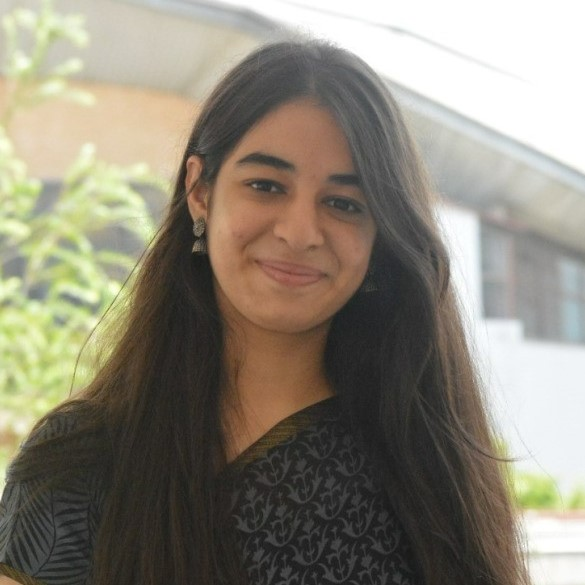
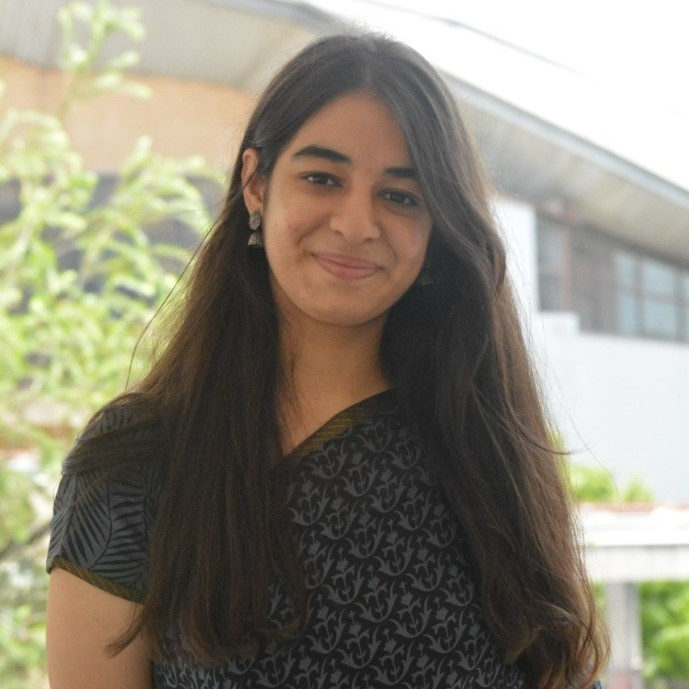
Updated teams page + New notifs highlighted

diff --git a/src/components/main/Notifications.js b/src/components/main/Notifications.js
@@ -5,15 +5,33 @@ import { notifData } from "../data/notifData";
 import logo_src from "../../images/logo-white.png";
 
 export default function Notifications(props) {
-  const [rawNotifData, unused] = React.useState(notifData);
+  const rawNotifData = React.useState(notifData)[0];
+  const [newNotifs, setNewNotifs] = React.useState(0);
+
+  const msPerMinute = 60 * 1000;
+  const msPerHour = msPerMinute * 60;
+  const msPerDay = msPerHour * 24;
+  const msPerMonth = msPerDay * 30;
+  const msPerYear = msPerDay * 365;
+
+  const expiryDuration = msPerDay * 3;
+
+  React.useEffect(() => {
+    rawNotifData.forEach((e) => {
+      const elapsed = Date.now() - new Date(e.time);
+      if (elapsed < expiryDuration) setNewNotifs((e) => e + 1);
+    });
+  }, []);
+
+  function isNew(current, previous) {
+    const elapsed = current - previous;
+
+    if (elapsed < expiryDuration) {
+      return true;
+    } else return false;
+  }
 
   function timeDifference(current, previous) {
-    const msPerMinute = 60 * 1000;
-    const msPerHour = msPerMinute * 60;
-    const msPerDay = msPerHour * 24;
-    const msPerMonth = msPerDay * 30;
-    const msPerYear = msPerDay * 365;
-
     const elapsed = current - previous;
     let msg = "";
     if (elapsed < msPerMinute) {
@@ -36,7 +54,11 @@ export default function Notifications(props) {
   }
 
   const notifs = rawNotifData.map((e, i) => (
-    <div className="notif--self" key={i}>
+    <div
+      className={`notif--self`}
+      key={i}
+      id={isNew(Date.now(), new Date(e.time)) ? "notif--new" : ""}
+    >
       <div className="notif--heading">
         <img src={logo_src} alt="PB Logo" />
         <h4>ProjectBeta</h4>
@@ -51,8 +73,8 @@ export default function Notifications(props) {
     <div className="notif--main">
       <h2>Notifications</h2>
       <p>
-        {rawNotifData.length === 0 ? "No" : rawNotifData.length} new
-        notification{rawNotifData.length !== 1 ? "s" : ""}
+        {newNotifs === 0 ? "No" : newNotifs} new notification
+        {newNotifs !== 1 ? "s" : ""}
       </p>
       <div className="notif--list">{notifs}</div>
     </div>

diff --git a/src/components/main/Taskbar.js b/src/components/main/Taskbar.js
@@ -14,11 +14,22 @@ import Notifications from "./Notifications";
 import { notifData } from "../data/notifData";
 
 export default function Taskbar() {
-  const [anyNotif, unused] = React.useState(notifData.length);
+  const [newNotifs, setNewNotifs] = React.useState(countNewNotifs());
+
+  function countNewNotifs() {
+    let count = 0;
+    const expiryDuration = 60 * 1000 * 60 * 24 * 3;
+    notifData.forEach((e) => {
+      const elapsed = Date.now() - new Date(e.time);
+      if (elapsed < expiryDuration) count++;
+    });
+    return count;
+  }
+
   const [notifToggled, setNotifToggled] = React.useState([
     false,
     "-85vh",
-    anyNotif > 0 ? notif_unread_src : notif_off_src,
+    newNotifs > 0 ? notif_unread_src : notif_off_src,
   ]);
 
   function toggleNotif() {

diff --git a/src/css/App.css b/src/css/App.css
@@ -119,7 +119,7 @@ body {
   transition: 0.5s;
   user-select: none;
   cursor: pointer;
-  color: var(--shadowBlack);
+  color: var(--shadowWhite);
   opacity: 0;
 }
 
@@ -301,6 +301,12 @@ body {
   height: fit-content;
   margin-bottom: 5px;
   align-items: center;
+}
+
+#notif--new {
+  border: 1px solid var(--bgWhite);
+  border-style: double;
+  background-color: var(--shadowWhite);
 }
 
 .notif--self hr {

diff --git a/src/components/main/MobileMenu.js b/src/components/main/MobileMenu.js
@@ -46,7 +46,7 @@ export default function MobileMenu(props) {
       </div>
       <div
         className="mobile--sidebar"
-        style={{ right: mobileToggled.sidebar ? "10px" : "-250px" }}
+        style={{ right: mobileToggled.sidebar ? "10px" : "-275px" }}
       >
         <Notifications />
         <hr />

diff --git a/src/css/Mobile.css b/src/css/Mobile.css
@@ -69,7 +69,7 @@
   position: fixed;
   bottom: 75px;
   top: 10px;
-  right: -250px;
+  right: -275px;
   height: auto;
   display: none;
   align-items: center;
